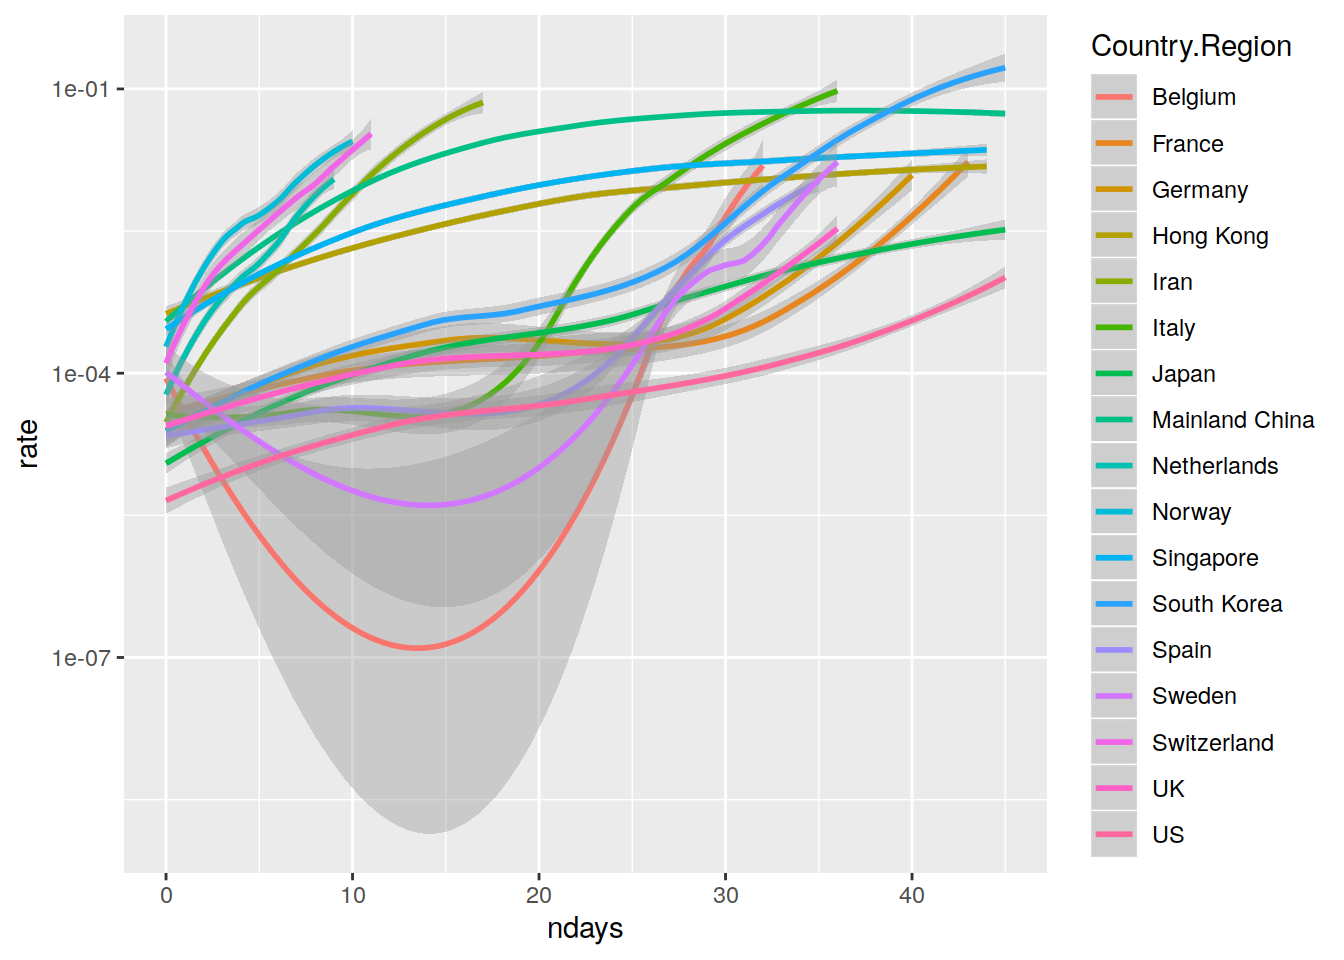
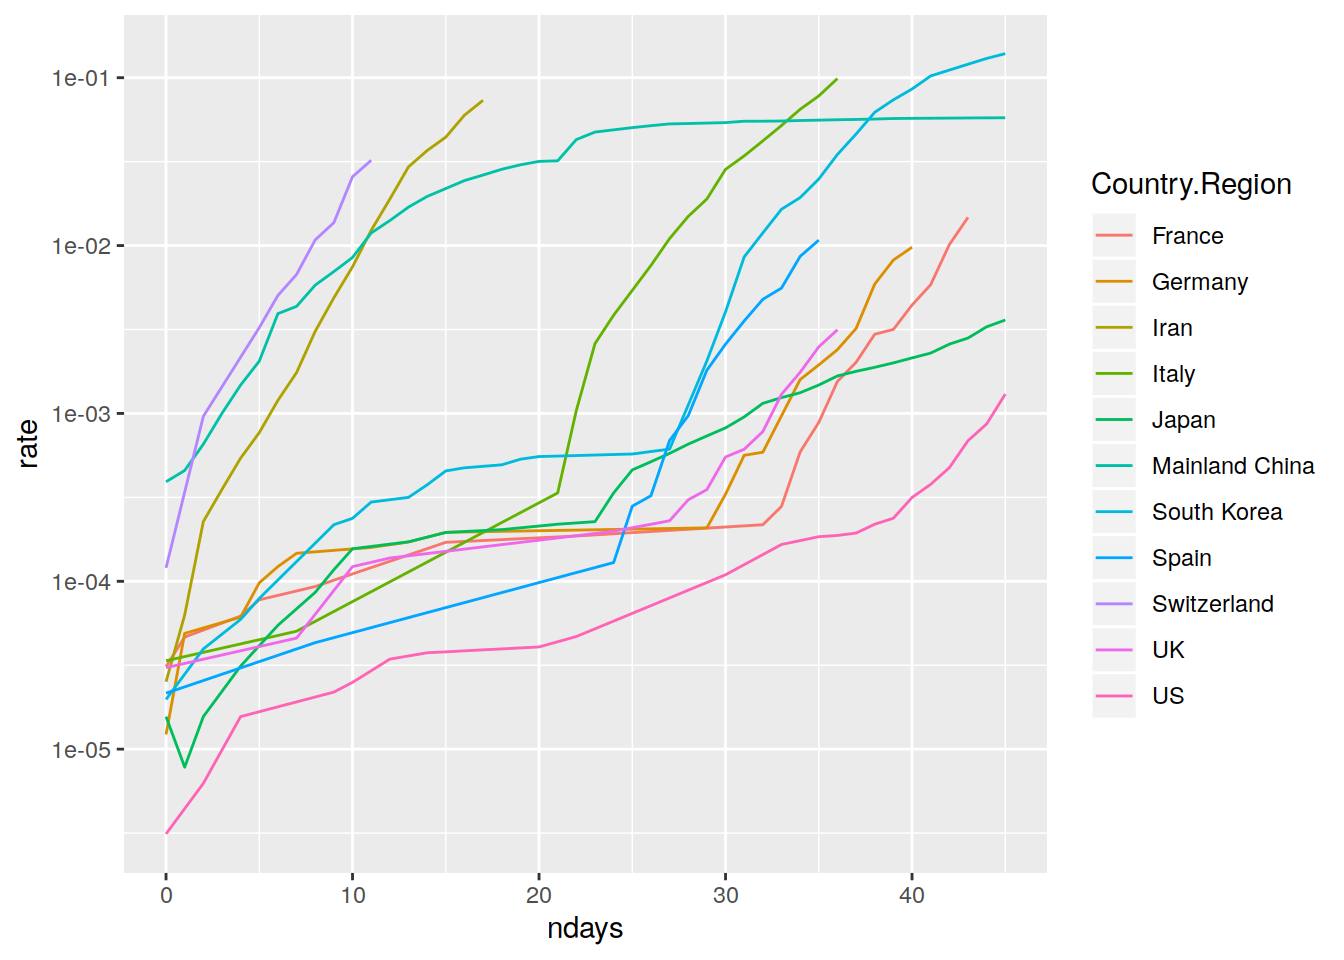
Build site.

diff --git a/docs/basic_stats.html b/docs/basic_stats.html
@@ -388,7 +388,7 @@ div.section {
 
 <p>
 <button type="button" class="btn btn-default btn-workflowr btn-workflowr-report" data-toggle="collapse" data-target="#workflowr-report">
-<span class="glyphicon glyphicon-list" aria-hidden="true"></span> workflowr <span class="glyphicon glyphicon-exclamation-sign text-danger" aria-hidden="true"></span>
+<span class="glyphicon glyphicon-list" aria-hidden="true"></span> workflowr <span class="glyphicon glyphicon-ok text-success" aria-hidden="true"></span>
 </button>
 </p>
 <div id="workflowr-report" class="collapse">
@@ -397,7 +397,7 @@ div.section {
 <a data-toggle="tab" href="#summary">Summary</a>
 </li>
 <li>
-<a data-toggle="tab" href="#checks"> Checks <span class="glyphicon glyphicon-exclamation-sign text-danger" aria-hidden="true"></span> </a>
+<a data-toggle="tab" href="#checks"> Checks <span class="glyphicon glyphicon-ok text-success" aria-hidden="true"></span> </a>
 </li>
 <li>
 <a data-toggle="tab" href="#versions">Past versions</a>
@@ -409,7 +409,7 @@ div.section {
 <strong>Last updated:</strong> 2020-03-09
 </p>
 <p>
-<strong>Checks:</strong> <span class="glyphicon glyphicon-ok text-success" aria-hidden="true"></span> 6 <span class="glyphicon glyphicon-exclamation-sign text-danger" aria-hidden="true"></span> 1
+<strong>Checks:</strong> <span class="glyphicon glyphicon-ok text-success" aria-hidden="true"></span> 7 <span class="glyphicon glyphicon-exclamation-sign text-danger" aria-hidden="true"></span> 0
 </p>
 <p>
 <strong>Knit directory:</strong> <code>corona_virus/</code> <span class="glyphicon glyphicon-question-sign" aria-hidden="true" title="This is the local directory in which the code in this file was executed."> </span>
@@ -425,12 +425,12 @@ This reproducible <a href="http://rmarkdown.rstudio.com">R Markdown</a> analysis
 <div class="panel panel-default">
 <div class="panel-heading">
 <p class="panel-title">
-<a data-toggle="collapse" data-parent="#workflowr-checks" href="#strongRMarkdownfilestronguncommittedchanges"> <span class="glyphicon glyphicon-exclamation-sign text-danger" aria-hidden="true"></span> <strong>R Markdown file:</strong> uncommitted changes </a>
+<a data-toggle="collapse" data-parent="#workflowr-checks" href="#strongRMarkdownfilestronguptodate"> <span class="glyphicon glyphicon-ok text-success" aria-hidden="true"></span> <strong>R Markdown file:</strong> up-to-date </a>
 </p>
 </div>
-<div id="strongRMarkdownfilestronguncommittedchanges" class="panel-collapse collapse">
+<div id="strongRMarkdownfilestronguptodate" class="panel-collapse collapse">
 <div class="panel-body">
-<p>The R Markdown file has unstaged changes. To know which version of the R Markdown file created these results, you’ll want to first commit it to the Git repo. If you’re still working on the analysis, you can ignore this warning. When you’re finished, you can run <code>wflow_publish</code> to commit the R Markdown file and build the HTML.</p>
+<p>Great! Since the R Markdown file has been committed to the Git repository, you know the exact version of the code that produced these results.</p>
 </div>
 </div>
 </div>
@@ -497,19 +497,16 @@ This reproducible <a href="http://rmarkdown.rstudio.com">R Markdown</a> analysis
 <div class="panel panel-default">
 <div class="panel-heading">
 <p class="panel-title">
-<a data-toggle="collapse" data-parent="#workflowr-checks" href="#strongRepositoryversionstrongahrefhttpsgithubcomdewollercovid19tree59b0a0be0e99bb788ec125098cb60a97d33d260dtargetblank59b0a0ba"> <span class="glyphicon glyphicon-ok text-success" aria-hidden="true"></span> <strong>Repository version:</strong> <a href="https://github.com/dewoller/covid-19/tree/59b0a0be0e99bb788ec125098cb60a97d33d260d" target="_blank">59b0a0b</a> </a>
+<a data-toggle="collapse" data-parent="#workflowr-checks" href="#strongRepositoryversionstrongahrefhttpsgithubcomdewollercovid19treefdaecfd7ee01f5019d23a532dc316cf4027e746dtargetblankfdaecfda"> <span class="glyphicon glyphicon-ok text-success" aria-hidden="true"></span> <strong>Repository version:</strong> <a href="https://github.com/dewoller/covid-19/tree/fdaecfd7ee01f5019d23a532dc316cf4027e746d" target="_blank">fdaecfd</a> </a>
 </p>
 </div>
[2 lines of base64/hex data omitted]
 <div class="panel-body">
 <p>
 Great! You are using Git for version control. Tracking code development and connecting the code version to the results is critical for reproducibility. The version displayed above was the version of the Git repository at the time these results were generated. <br><br> Note that you need to be careful to ensure that all relevant files for the analysis have been committed to Git prior to generating the results (you can use <code>wflow_publish</code> or <code>wflow_git_commit</code>). workflowr only checks the R Markdown file, but you know if there are other scripts or data files that it depends on. Below is the status of the Git repository when the results were generated:
 </p>
 <pre><code>
-Unstaged changes:
-    Modified:   analysis/basic_stats.Rmd
-    Modified:   analysis/license.Rmd
-
+working directory clean
 </code></pre>
 <p>
 Note that any generated files, e.g. HTML, png, CSS, etc., are not included in this status report because it is ok for generated content to have uncommitted changes.
@@ -547,6 +544,57 @@ Message
 </tr>
 </thead>
 <tbody>
+<tr>
+<td>
+Rmd
+</td>
+<td>
+<a href="https://github.com/dewoller/covid-19/blob/fdaecfd7ee01f5019d23a532dc316cf4027e746d/analysis/basic_stats.Rmd" target="_blank">fdaecfd</a>
+</td>
+<td>
+Dennis Wollersheim
+</td>
+<td>
+2020-03-08
+</td>
+<td>
+wflow_publish(“analysis/basic_stats.Rmd”)
+</td>
+</tr>
+<tr>
+<td>
+Rmd
+</td>
+<td>
+<a href="https://github.com/dewoller/covid-19/blob/dfd0e1c0c2bb5a6c015403678ee3895b5c889fef/analysis/basic_stats.Rmd" target="_blank">dfd0e1c</a>
+</td>
+<td>
+Dennis Wollersheim
+</td>
+<td>
+2020-03-08
+</td>
+<td>
+setup
+</td>
+</tr>
+<tr>
+<td>
+html
+</td>
+<td>
+<a href="https://rawcdn.githack.com/dewoller/covid-19/dfd0e1c0c2bb5a6c015403678ee3895b5c889fef/docs/basic_stats.html" target="_blank">dfd0e1c</a>
+</td>
+<td>
+Dennis Wollersheim
+</td>
+<td>
+2020-03-08
+</td>
+<td>
+setup
+</td>
+</tr>
 <tr>
 <td>
 Rmd
@@ -815,6 +863,7 @@ Dennis Wollersheim
 </div>
 <div id="total-cumulative-confirmed-cases-as-a-population-rate" class="section level1">
 <h1>Total cumulative confirmed cases as a population rate</h1>
+<p>Note, Japan had -1 cases on day 2</p>
 <pre class="r"><code>coronavirus %&gt;% 
   mutate( name = ifelse(is.na(name), Country.Region, name)) %&gt;%
   inner_join(pop, by=&#39;name&#39; ) %&gt;% 
@@ -825,14 +874,14 @@ Dennis Wollersheim
   summarise( cases=sum(cases), population = min(`2015`)) %&gt;%
   ungroup() %&gt;%
   group_by( Country.Region) %&gt;%
-  filter( sum(cases) &gt; 100 ) %&gt;%
+ # filter( Country.Region==&#39;Japan&#39; ) %&gt;%
+  filter( sum(cases) &gt; 200 ) %&gt;%
   arrange( ndays, .by_group=TRUE) %&gt;%
-  mutate( rate = cumsum(cases ) / population  ) %&gt;%
+  mutate( cumcases = cumsum(cases), rate = cumsum(cases ) / population  ) %&gt;%
   ggplot(aes( ndays, rate, color=Country.Region)) +
-  geom_smooth() +
+  geom_line() +
   scale_y_log10() +
   scale_x_continuous()</code></pre>
-<pre><code>`geom_smooth()` using method = &#39;loess&#39; and formula &#39;y ~ x&#39;</code></pre>
 <p><img src="figure/basic_stats.Rmd/unnamed-chunk-4-1.png" width="672" style="display: block; margin: auto;" /></p>
 <p>
 <button type="button" class="btn btn-default btn-xs btn-workflowr btn-workflowr-fig" data-toggle="collapse" data-target="#fig-unnamed-chunk-4-1">
@@ -856,6 +905,17 @@ Date
 </tr>
 </thead>
 <tbody>
+<tr>
+<td>
+<a href="https://github.com/dewoller/covid-19/blob/dfd0e1c0c2bb5a6c015403678ee3895b5c889fef/docs/figure/basic_stats.Rmd/unnamed-chunk-4-1.png" target="_blank">dfd0e1c</a>
+</td>
+<td>
+Dennis Wollersheim
+</td>
+<td>
+2020-03-08
+</td>
+</tr>
 <tr>
 <td>
 <a href="https://github.com/dewoller/covid-19/blob/f7ba6bc7e3912c5445e2b92430cc62b020d57568/docs/figure/basic_stats.Rmd/unnamed-chunk-4-1.png" target="_blank">f7ba6bc</a>
@@ -926,8 +986,8 @@ attached base packages:
 [1] stats     graphics  grDevices utils     datasets  methods   base     
 
 other attached packages:
- [1] wpp2017_1.2-3          coronavirus_0.1.0.9000 forcats_0.4.0         
- [4] stringr_1.4.0          dplyr_0.8.4            purrr_0.3.3           
+ [1] wpp2017_1.2-3          coronavirus_0.1.0.9000 forcats_0.5.0         
+ [4] stringr_1.4.0          dplyr_0.8.5            purrr_0.3.3           
  [7] readr_1.3.1            tidyr_1.0.2            tibble_2.1.3          
 [10] ggplot2_3.2.1          tidyverse_1.3.0        nvimcom_0.9-82        
 
@@ -935,17 +995,17 @@ loaded via a namespace (and not attached):
  [1] tidyselect_1.0.0     xfun_0.11            haven_2.2.0         
  [4] lattice_0.20-40      colorspace_1.4-1     vctrs_0.2.3         
  [7] generics_0.0.2       htmltools_0.4.0      yaml_2.2.1          
-[10] utf8_1.1.4           rlang_0.4.4          pillar_1.4.3        
+[10] utf8_1.1.4           rlang_0.4.5          pillar_1.4.3        
 [13] withr_2.1.2          glue_1.3.1           DBI_1.1.0           
-[16] dbplyr_1.4.2         modelr_0.1.5         readxl_1.3.1        
-[19] lifecycle_0.1.0      munsell_0.5.0        gtable_0.3.0        
+[16] dbplyr_1.4.2         modelr_0.1.6         readxl_1.3.1        
+[19] lifecycle_0.2.0      munsell_0.5.0        gtable_0.3.0        
 [22] workflowr_1.4.0.9001 cellranger_1.1.0     rvest_0.3.5         
 [25] evaluate_0.14        labeling_0.3         knitr_1.28          
 [28] fansi_0.4.1          broom_0.5.4          Rcpp_1.0.3          
 [31] backports_1.1.5      scales_1.1.0         jsonlite_1.6.1      
-[34] farver_2.0.1         fs_1.3.1             hms_0.5.3           
-[37] digest_0.6.24        stringi_1.4.6        grid_3.6.1          
-[40] rprojroot_1.3-2      cli_2.0.1            tools_3.6.1         
+[34] farver_2.0.1         fs_1.3.2             hms_0.5.3           
+[37] digest_0.6.25        stringi_1.4.6        grid_3.6.1          
+[40] rprojroot_1.3-2      cli_2.0.2            tools_3.6.1         
 [43] magrittr_1.5         lazyeval_0.2.2       crayon_1.3.4        
 [46] whisker_0.4          pkgconfig_2.0.3      data.table_1.12.8   
 [49] xml2_1.2.2           reprex_0.3.0         lubridate_1.7.4     
